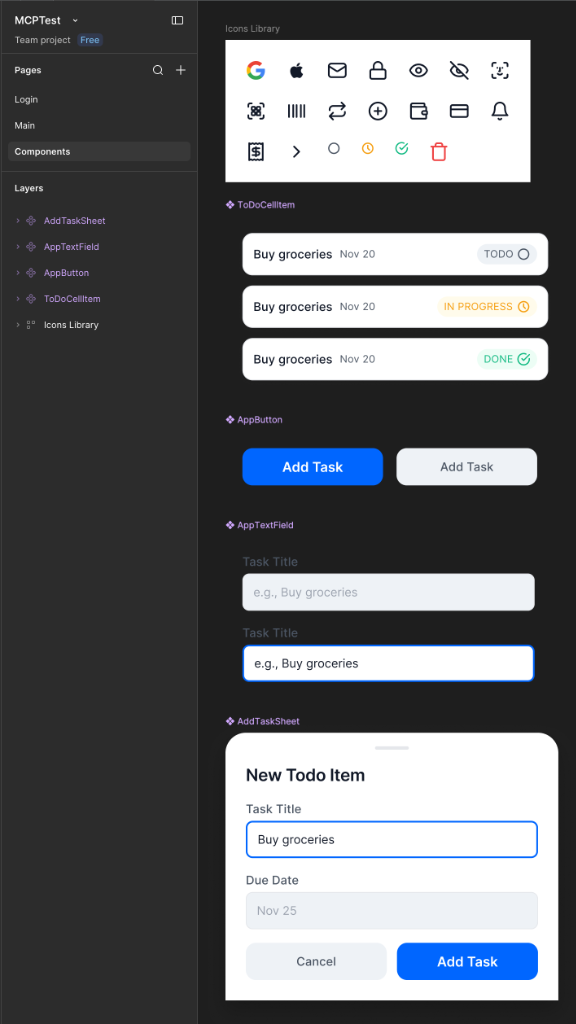
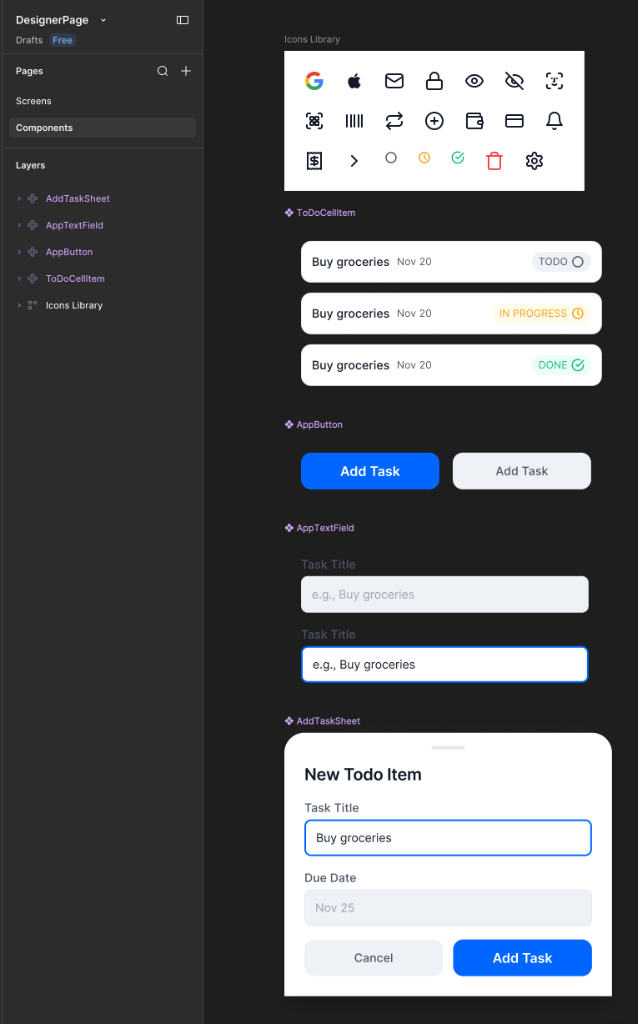
docs(readme): update Screens page screenshots and descriptions

diff --git a/README.md b/README.md
@@ -12,9 +12,9 @@ This repository demonstrates how to combine **Figma Design-as-Code (via a local 
 
 ### 📸 Preview (Generated by `TodoList FigmaDesigner` Plugin)
 
-| `Components` Page (Icons & Reusable Variants) | `Main` Page (Auto-Layout Screen) |
+| `Components` Page (Icons & Reusable Variants) | `Screens` Page (`Login` / `Main` / `Setting` Frames) |
 | :---: | :---: |
-| ![Figma Components Page](./docs/images/figma-components.png) | ![Figma Main Screen](./docs/images/figma-main-screen.png) |
+| ![Figma Components Page](./docs/images/figma-components.png) | ![Figma Screens Page](./docs/images/figma-screens.png) |
 
 ### 🚀 Quick Start
 
@@ -213,7 +213,7 @@ stateDiagram-v2
 
 ## 7. Figma Pages & Reusable Components (`Pages & Components`)
 
-> **Device & Orientation Baseline**: This design system targets **Phone Only** in **Portrait / Portrait Upside Down**. `393 × 852` is only a reference frame size for the static Figma canvas—all three mobile apps must adapt fluidly to any portrait phone screen via Auto Layout without locking fixed screen dimensions.
+> **Page Consolidation & Device Baseline**: To stay within Figma Starter's 3-page limit, the file uses **2 Figma Pages**: a dedicated `Components` page and a single **`Screens`** page containing **3 side-by-side `393 × 852` frames** (`Login Screen`, `Main Screen`, `Setting Screen`). This design system targets **Phone Only** in **Portrait / Portrait Upside Down**—`393 × 852` is only a reference frame size for the static Figma canvas, and all three mobile apps must adapt fluidly to any portrait phone screen via Auto Layout without locking fixed screen dimensions.
 
 ### 7.1 `Components` Page
 
@@ -318,8 +318,8 @@ flowchart LR
      - `ctx.cleanupEmptyPage1AndSort()`: Removes leftover empty `Page 1` frames and orders pages cleanly.
    - Before drawing, each screen script removes stale frames with the same name, making every run **100% idempotent**—you can re-run the plugin endlessly without creating duplicate layers.
 
-   ![Generated Main Screen](./docs/images/figma-main-screen.png)
-   *Figure 2: `Main Screen` generated by `screens/main.js` using Auto Layout, semantic tokens, and `ToDoCellItem` / `AppButton` instances.*
+   ![Generated Screens Page](./docs/images/figma-screens.png)
+   *Figure 2: Single `Screens` page containing all 3 frames (`Login Screen`, `Main Screen`, `Setting Screen`) generated by `screens/*.js` using Auto Layout, semantic tokens, and shared component instances.*
 
 ---
 
@@ -339,7 +339,7 @@ To avoid pasting scripts manually into Figma's Developer Console, [`FigmaDesigne
    Any edit to your Design-as-Code scripts automatically triggers a rebuild within 1 second.
 3. **Run inside Figma Desktop**:
    - Open Figma Desktop ➔ `Plugins` ➔ `Development` ➔ `Import plugin from manifest...` ➔ pick [`FigmaDesigner/manifest.json`](./FigmaDesigner/manifest.json).
-   - Click **`🚀 Rebuild All`** for a full rebuild (`Foundations ➔ Components ➔ Screens`), or click an individual screen button to redraw just one page.
+   - Click **`🚀 Rebuild All`** for a full rebuild (`Foundations ➔ Components ➔ Screens`), or click an individual screen button to redraw just one screen frame.
 
 ---
 
